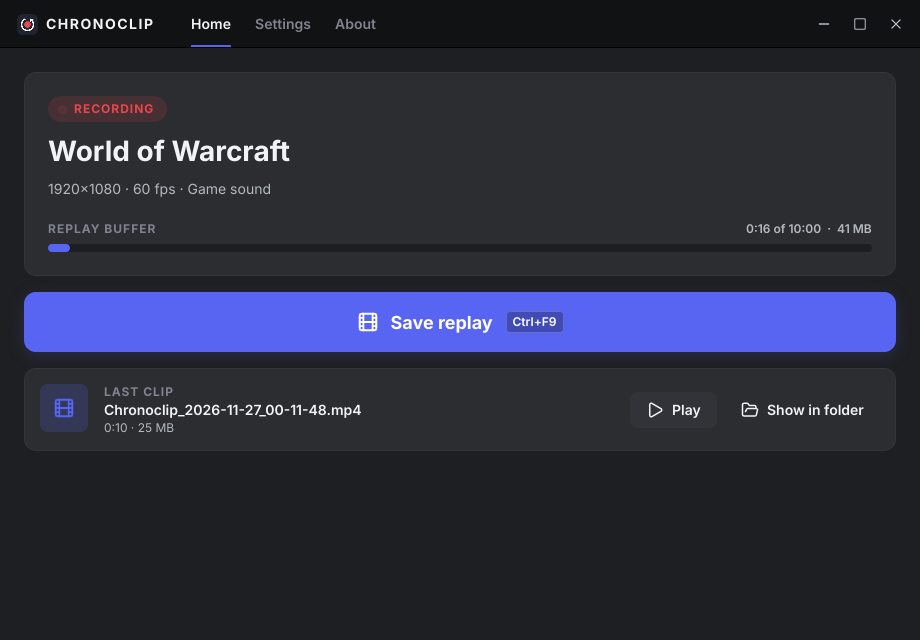
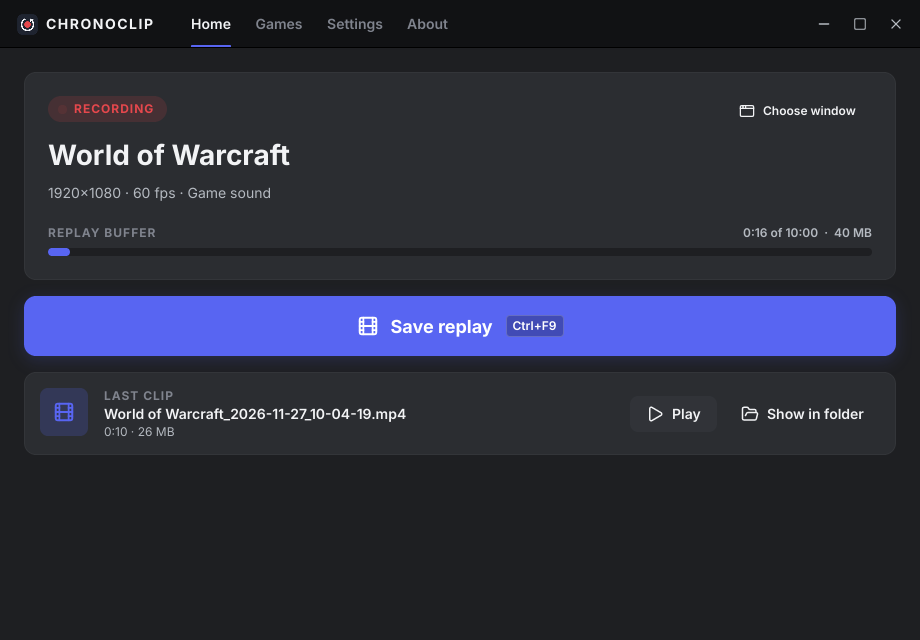
docs: Chronoclip records your games, not only WoW (M8)

diff --git a/app/src/main.rs b/app/src/main.rs
@@ -1,4 +1,4 @@
-//! Chronoclip: replay buffer for World of Warcraft on Linux.
+//! Chronoclip: replay buffer for your games on Linux.
 //!
 //! Without a subcommand this starts the tray app (or shows the window of an already running
 //! instance). Subcommands talk to the running instance over a Unix socket.
@@ -30,7 +30,7 @@ use crate::controller::Controller;
 #[command(
     name = "chronoclip",
     version,
-    about = "Replay buffer for World of Warcraft on Linux"
+    about = "Replay buffer for your games on Linux"
 )]
 struct Cli {
     /// Start in the tray without showing the window (for autostart).

diff --git a/app/src/controller.rs b/app/src/controller.rs
@@ -23,7 +23,8 @@ use crate::recorder::{Recorder, RecorderConfig, RecorderStatus, Shared};
 use crate::save::{self, SavedClip};
 use crate::ui::{MainWindow, RecState, Tray, TrayState};
 
-/// Set to a window title (substring) to record that window instead of WoW. For testing.
+/// Set to a window title (substring) to record only that window instead of the games. For
+/// testing.
 const WINDOW_ENV: &str = "CHRONOCLIP_WINDOW";
 
 #[derive(Default)]

diff --git a/app/src/notify.rs b/app/src/notify.rs
@@ -1,6 +1,6 @@
 //! Feedback after a save that you notice even in-game: a chime and a desktop notification.
 //!
-//! Cinnamon hides notifications over fullscreen windows by default, and borderless WoW counts
+//! Cinnamon hides notifications over fullscreen windows by default, and borderless games count
 //! as fullscreen, so the chime is what tells you a save worked while playing.
 
 use std::path::{Path, PathBuf};

diff --git a/crates/chronoclip-core/src/autostart.rs b/crates/chronoclip-core/src/autostart.rs
@@ -15,7 +15,7 @@ pub fn desktop_entry(exe: &Path) -> String {
         "[Desktop Entry]\n\
          Type=Application\n\
          Name=Chronoclip\n\
-         Comment=Replay buffer for World of Warcraft\n\
+         Comment=Replay buffer for your games\n\
          Exec={} --hidden\n\
          Icon={APP_ID}\n\
          Terminal=false\n\

diff --git a/README.md b/README.md
@@ -1,13 +1,13 @@
 # Chronoclip
 
-> An open source, lightweight **replay buffer for World of Warcraft on Linux**. Think NVIDIA ShadowPlay "Instant Replay", but native to Linux, vendor-neutral, and built around WoW running through Wine / Proton / Lutris.
+> An open source, lightweight **replay buffer for your games on Linux**. Think NVIDIA ShadowPlay "Instant Replay", but native to Linux and vendor-neutral. Made for World of Warcraft first, and it records any game: Steam and Proton, Battle.net, Lutris, Heroic or native Linux games.
 
-Chronoclip continuously records your gameplay to a rolling buffer on disk. When something worth keeping happens (a boss kill, a clutch arena win, a hilarious wipe) press your hotkey (default **`Ctrl+F9`**) and the last *N* minutes are saved as a normal video file.
+Chronoclip continuously records your gameplay to a rolling buffer on disk. When something worth keeping happens (a boss kill, a clutch round, a hilarious wipe) press your hotkey (default **`Ctrl+F9`**) and the last *N* minutes are saved as a normal video file.
 
 > **Status:** 🚧 Pre-alpha. Recording and saving replays with sound work on X11 with an NVIDIA GPU. See [Roadmap](#roadmap).
 
 <p align="center">
-  <img src="docs/images/chronoclip-window.png" alt="Chronoclip's Home page: a dark window with Home, Settings and About tabs in the title bar, a RECORDING badge for World of Warcraft at 1920×1080 and 60 fps with game sound, a replay buffer bar at 0:16 of 10:00, a large blue Save replay button showing Ctrl+F9, and the last saved clip with Play and Show in folder buttons" width="440">
+  <img src="docs/images/chronoclip-window.png" alt="Chronoclip's Home page: a dark window with Home, Games, Settings and About tabs in the title bar, a RECORDING badge for World of Warcraft at 1920×1080 and 60 fps with game sound and a Choose window button, a replay buffer bar at 0:16 of 10:00, a large blue Save replay button showing Ctrl+F9, and the last saved clip with Play and Show in folder buttons" width="440">
   <img src="docs/images/chronoclip-settings.png" alt="Chronoclip's Settings page: cards for Recording (replay length slider at 10 min, frame rate 30/60/120/144, encoder dropdown) and Sound (Game only, All sound or Off, microphone toggle)" width="440">
 </p>
 
@@ -15,14 +15,15 @@ Chronoclip continuously records your gameplay to a rolling buffer on disk. When 
 
 Chronoclip is a **replay buffer**, like a dashcam for your game. You never have to remember to press "record" before the good part happens:
 
-1. **It is always recording.** While WoW runs, Chronoclip records the game window in the background and keeps the last *N* minutes (5 to 45, default 10) on disk. Anything older is deleted automatically, so the buffer never grows.
-2. **You decide afterwards what to keep.** Something great just happened? Press `Ctrl+F9`. The last *N* minutes are saved as an MP4 in `~/Videos/Chronoclip`, ready to watch, trim or share on Discord.
-3. **Everything else is thrown away.** No hours of footage to sort through, no full disk. When you start the game again, the recording of the previous game is dropped, so a clip never mixes two game sessions.
+1. **It is always recording.** While a game runs, Chronoclip records its window in the background and keeps the last *N* minutes (5 to 45, default 10) on disk. Anything older is deleted automatically, so the buffer never grows.
+2. **You decide afterwards what to keep.** Something great just happened? Press `Ctrl+F9`. The last *N* minutes are saved as an MP4 in `~/Videos/Chronoclip/<game>`, ready to watch, trim or share on Discord.
+3. **Everything else is thrown away.** No hours of footage to sort through, no full disk. When you start a game again (or another one), the previous recording is dropped, so a clip never mixes two game sessions.
 
 ### Using it
 
 - Start Chronoclip once; it sits in the system tray. Closing the window keeps it recording in the background.
-- Start WoW as usual (Faugus, Lutris, Steam/Proton, …). Chronoclip finds the WoW window by itself and starts recording; the tray tooltip and the window show the status.
+- Start a game as usual (Steam, Faugus, Lutris, Heroic, …). Chronoclip finds it by itself and starts recording: your installed Steam games, games in Wine prefixes it knows (Battle.net games, for example) and 176 built-in games are recognized. For anything else it asks *"Record this game?"*, or you pick the window with **Choose window**. The tray tooltip and the window show the status.
+- It stays with the game you started, even if you start another one; **Choose window** switches.
 - Press the hotkey (or click **Save replay** in the window or tray menu, or run `chronoclip save`). A few seconds later the clip is in your clips folder.
 
 ### What it costs
@@ -42,7 +43,7 @@ Chronoclip only reads what your desktop already shows on screen and plays throug
 
 ## Why
 
-Windows players have ShadowPlay, ReLive, Medal and friends. On Linux the options are either general-purpose (OBS) or CLI-first. Chronoclip is a small, focused, native desktop app for one job: *always be recording WoW, save the good bits with one key*. It is built by a Linux WoW player for their own use and shared in case it is useful to others.
+Windows players have ShadowPlay, ReLive, Medal and friends. On Linux the options are either general-purpose (OBS) or CLI-first. Chronoclip is a small, focused, native desktop app for one job: *always be recording your game, save the good bits with one key*. It is built by a Linux WoW player for their own use and shared in case it is useful to others.
 
 ## Features
 
@@ -50,14 +51,17 @@ Works today (X11 + NVIDIA):
 
 - **Always-on replay buffer** on disk, oldest footage deleted automatically, cleaned up on exit.
 - **Save on hotkey**: a configurable global hotkey (default `Ctrl+F9`) that works while the game has focus, plus a Save button, tray menu and `chronoclip save` CLI command.
-- **Game sound**: only WoW's own audio by default, so voice chat and music stay out of your clips; or *all sound* if you want your Discord call in them. Optional **microphone** on its own track.
+- **Game sound**: only the game's own audio by default, so voice chat and music stay out of your clips; or *all sound* if you want your Discord call in them. Optional **microphone** on its own track.
 - **Configurable buffer length**: from **5 to 45 minutes** (default **10**).
 - **Instant saves**: saving joins the already-encoded segments into an MP4 without re-encoding, so it takes seconds, not minutes.
 - **Hardware encoding** with NVENC, GPU-only capture path.
-- **Finds the WoW window by itself** (Wine / Proton `Wow.exe`).
+- **Finds your games by itself**: installed Steam games, Blizzard and other known games in Wine prefixes (Faugus, Lutris, Heroic, Bottles, Steam), 176 built-in games, and games you add. Proper names from Steam, Heroic, Lutris and Faugus.
+- **Asks about unknown games**: a window that looks like a game but is in no list gets *"Record this game?"* (on Home and in a notification), with *Record* or *Not this one*.
+- **Games tab**: your games, the ones installed on this computer, the ones you switched off and the built-in list, with search; **Choose window** picks any window.
+- **A folder per game**: `~/Videos/Chronoclip/ELDEN RING/ELDEN RING_2026-11-27_21-04-33.mp4`.
 - **Modern dark window** in the style of the Battle.net launcher and Discord: big status, the replay buffer filling up, a big **Save replay** button with your hotkey, the last clip with **Play** / **Show in folder**, settings in cards, a hotkey recorder (click and press your keys).
 - **Fully native and lightweight**: Rust all the way down, native UI with [Slint](https://slint.dev). No Electron, no webview.
-- **Tray app** that keeps recording when the window is closed. The icon shows the state: red while recording, grey while waiting for WoW, amber on errors.
+- **Tray app** that keeps recording when the window is closed. The icon shows the state: red while recording, grey while waiting for a game, amber on errors.
 - **You hear when a clip is saved**: a short chime (a different tone if saving failed), also while playing, plus a desktop notification with **Play** and **Show in folder**.
 - **Start with the desktop** (optional): starts in the tray when you log in.
 - **Packages**: a .deb for Ubuntu and Linux Mint and an AppImage for other distros, on [GitHub Releases](https://github.com/etse/chronoclip/releases/latest); both bring their own FFmpeg.
@@ -65,7 +69,6 @@ Works today (X11 + NVIDIA):
 Planned (see [Roadmap](#roadmap)):
 
 - **Wayland** (screen capture and hotkey through portals) and **AMD / Intel** GPUs (VAAPI).
-- **Other games** besides WoW.
 
 ## Tech stack
 
@@ -84,11 +87,11 @@ The reasoning is recorded in [docs/adr/](docs/adr/). The design is in [docs/arch
 ## How it works (short version)
 
 ```
- WoW window ──► XComposite / PipeWire ──► NVENC / VAAPI ──► 2 s segments in ~/.cache
+ Game window ─► XComposite / PipeWire ──► NVENC / VAAPI ──► 2 s segments in ~/.cache
  Game audio ──► PipeWire ──────────────┘                     (rolling, oldest deleted)
                                                                     │
             Ctrl+F9 / `chronoclip save` ──► take last N min ────────┘
-                                              └──► remux (no re-encode) ──► ~/Videos/Chronoclip/*.mp4
+                                              └──► remux (no re-encode) ──► ~/Videos/Chronoclip/<game>/*.mp4
 ```
 
 ## Requirements
@@ -138,17 +141,17 @@ Settings are stored in `~/.config/chronoclip/settings.toml`.
 
 Any of these saves the last *N* minutes (your buffer length) while recording keeps going:
 
-- press the hotkey (default **`Ctrl+F9`**), also while WoW has focus,
+- press the hotkey (default **`Ctrl+F9`**), also while the game has focus,
 - click **Save replay** in the window, or **Save replay** in the tray menu,
 - run `chronoclip save`. It waits for the clip and prints its path, so you can also bind it to a key in your desktop's keyboard settings (the way to go on Wayland until the portal hotkey lands).
 
-A short rising chime tells you the clip was saved, and a lower falling tone that it wasn't (for example when nothing was recorded yet). A desktop notification shows the clip's length and size, with **Play** and **Show in folder** buttons. Cinnamon hides notifications over fullscreen windows by default (borderless WoW counts), so in-game the chime is what you notice; the notification is waiting when you alt-tab. With *All sound*, the chime is recorded at the start of the next clip.
+A short rising chime tells you the clip was saved, and a lower falling tone that it wasn't (for example when nothing was recorded yet). A desktop notification shows the clip's length and size, with **Play** and **Show in folder** buttons. Cinnamon hides notifications over fullscreen windows by default (borderless games count), so in-game the chime is what you notice; the notification is waiting when you alt-tab. With *All sound*, the chime is recorded at the start of the next clip.
 
-Clips go to a folder per game, e.g. `~/Videos/Chronoclip/World of Warcraft/World of Warcraft_YYYY-MM-DD_HH-MM-SS.mp4` (H.264 + AAC in MP4, plays everywhere, starts instantly in browsers and Discord). The save waits up to two seconds for the moment you pressed the key to be written, then copies the video without re-encoding, so even long clips take seconds. If the WoW window changed size during the buffer, the clip starts at the resize. Each save starts where the previous clip ended, so two clips never contain the same footage.
+Clips go to a folder per game, e.g. `~/Videos/Chronoclip/World of Warcraft/World of Warcraft_YYYY-MM-DD_HH-MM-SS.mp4` (H.264 + AAC in MP4, plays everywhere, starts instantly in browsers and Discord). The save waits up to two seconds for the moment you pressed the key to be written, then copies the video without re-encoding, so even long clips take seconds. If the game window changed size during the buffer, the clip starts at the resize. Each save starts where the previous clip ended, so two clips never contain the same footage.
 
 ## Configuration
 
-Settings are changed on the **Settings** tab and saved automatically: buttons and switches at once, the slider when you let go, folder fields when you press Enter or leave the field. To change the hotkey, click it and press the new key combination (Esc cancels).
+Games are managed on the **Games** tab: remove one you added, switch off one that isn't a game (*Don't record*), or add a window with *Add a game window…*. Everything else is on the **Settings** tab and saved automatically: buttons and switches at once, the slider when you let go, folder fields when you press Enter or leave the field. To change the hotkey, click it and press the new key combination (Esc cancels).
 
 | Setting | Default | Range / notes |
 |---|---|---|
@@ -159,7 +162,7 @@ Settings are changed on the **Settings** tab and saved automatically: buttons an
 | Resolution / FPS | Native / 60 | 30, 60, 120, 144 |
 | Encoder | Auto (best available) | VAAPI, NVENC, software fallback |
 | Quality | Auto | Constant quality or constant bitrate |
-| Sound | Game only | *Game only* (WoW's own audio; all sound until WoW's audio is found), *All sound* (everything you hear, incl. voice chat and music), *Off* |
+| Sound | Game only | *Game only* (the game's own audio; all sound until it is found), *All sound* (everything you hear, incl. voice chat and music), *Off* |
 | Microphone | Off | Your default microphone as a second audio track (players and Discord play only the first track) |
 | Play a sound when a clip is saved | On | Chime on success, lower tone on failure |
 | Chronoclip title bar | On | Off: your desktop's normal window title bar instead of Chronoclip's own |
@@ -202,4 +205,4 @@ Contributions are welcome. See [CONTRIBUTING.md](CONTRIBUTING.md). The repositor
 
 ## Disclaimer
 
-Chronoclip is a fan-made project and is not affiliated with or endorsed by Blizzard Entertainment. World of Warcraft is a trademark of Blizzard Entertainment, Inc.
+Chronoclip is a fan-made project and is not affiliated with or endorsed by Blizzard Entertainment, Valve or any other game publisher. World of Warcraft is a trademark of Blizzard Entertainment, Inc. Other game names belong to their owners.

diff --git a/docs/architecture.md b/docs/architecture.md
@@ -1,6 +1,6 @@
 # Architecture
 
-> Status: X11 + NVIDIA capture (M2), saving replays (M3) and audio (M4) are implemented; Wayland and VAAPI are still design. Update this document as the implementation lands.
+> Status: X11 + NVIDIA capture (M2), saving replays (M3), audio (M4) and recording any game (M8) are implemented; Wayland and VAAPI are still design. Update this document as the implementation lands.
 
 ## Goals
 
@@ -43,7 +43,7 @@
 | `AudioTimeline` | `chronoclip-core` | Places captured chunks on the session clock: silence for gaps, drops overlap, corrects device clock drift. |
 | Audio tracks | `app/` (`audio.rs`) | `AudioSink` per track: timeline → `AacEncoder` → writer, timestamps relative to the current window session. |
 | `Encoder` / `SegmentWriter` | `chronoclip-encode` | FFmpeg wrappers. NVENC with a closed GOP aligned to segment length so every segment starts with an IDR frame; AAC (FFmpeg's built-in encoder). The segment writer cuts on video keyframes and writes the audio streams into the same files. |
-| App | `app/` | Slint UI, tray icon, global hotkey, single-instance IPC + CLI, lifecycle (start/stop, WoW detection), desktop notifications. |
+| App | `app/` | Slint UI, tray icon, global hotkey, single-instance IPC + CLI, lifecycle (start/stop, finding the game: see [Finding the game](#finding-the-game)), desktop notifications. |
 
 ### Linux integration
 
@@ -51,8 +51,8 @@ Implementation order follows the reference setup (Linux Mint Cinnamon on X11, NV
 
 | Concern | X11 (first) | Wayland (later) |
 |---|---|---|
-| Video capture | `XCompositeRedirectWindow` on the WoW window → named pixmap → `GLX_EXT_texture_from_pixmap` texture → drawn with a full-screen-triangle shader into our own RGBA8 texture (NVIDIA can't attach pixmap textures to an FBO, so no blit) → registered with CUDA (`cuGraphicsGLRegisterImage`) → `cuMemcpy2D` into the encoder's CUDA frame → NVENC. Frames never touch the CPU. **Copy mode:** NVIDIA refuses `glXCreatePixmap` (BadAlloc) on the backing pixmap of windows rendered via Vulkan/DXVK (Wine/Proton games, Battle.net, Chrome); for those the X server first copies the window into a pixmap we own (`XCopyArea`, a server-side GPU copy) and that pixmap is bound instead. A resize or minimize ends the session; the recorder then starts a new one at the new size. | xdg-desktop-portal ScreenCast (`ashpd`) → PipeWire stream, DMA-BUF when available. Persist the portal **restore token** so the user picks the WoW window only once. |
-| Audio | PulseAudio client API (`libpulse.so.0`, loaded at runtime), served by `pipewire-pulse`: the WoW stream alone via a monitor stream (`pa_stream_set_monitor_stream`), or `@DEFAULT_MONITOR@` for all sound; microphone from the default source | same (the portal is only needed for video) |
+| Video capture | `XCompositeRedirectWindow` on the game window → named pixmap → `GLX_EXT_texture_from_pixmap` texture → drawn with a full-screen-triangle shader into our own RGBA8 texture (NVIDIA can't attach pixmap textures to an FBO, so no blit) → registered with CUDA (`cuGraphicsGLRegisterImage`) → `cuMemcpy2D` into the encoder's CUDA frame → NVENC. Frames never touch the CPU. **Copy mode:** NVIDIA refuses `glXCreatePixmap` (BadAlloc) on the backing pixmap of windows rendered via Vulkan/DXVK (Wine/Proton games, Battle.net, Chrome); for those the X server first copies the window into a pixmap we own (`XCopyArea`, a server-side GPU copy) and that pixmap is bound instead. A resize or minimize ends the session; the recorder then starts a new one at the new size. | xdg-desktop-portal ScreenCast (`ashpd`) → PipeWire stream, DMA-BUF when available. Persist the portal **restore token** so the user picks the game window only once. |
+| Audio | PulseAudio client API (`libpulse.so.0`, loaded at runtime), served by `pipewire-pulse`: the game's stream alone via a monitor stream (`pa_stream_set_monitor_stream`), or `@DEFAULT_MONITOR@` for all sound; microphone from the default source | same (the portal is only needed for video) |
 | Encoder | NVENC (NVIDIA, via FFmpeg `h264_nvenc` / `hevc_nvenc` / `av1_nvenc` with CUDA hw frames), VAAPI (AMD/Intel) | same |
 | Global hotkey | `XGrabKey` on the root window, once per Caps Lock / Num Lock combination; own code in `chronoclip-capture` (`X11Hotkey`) with its own thread and X connection. A key taken by another client (`BadAccess`) is reported in the UI | GlobalShortcuts portal (KDE Plasma 6, GNOME 48+, Hyprland). Fallback: user binds `chronoclip save` in their desktop settings |
 | Tray | Slint `SystemTrayIcon` (StatusNotifierItem); GNOME needs the AppIndicator extension | same |
@@ -87,7 +87,17 @@ Stream-copy concatenation into MP4 is I/O bound and takes seconds even for 45 mi
 ### Capture target
 **Borderless windowed is the primary supported mode** (it's what the maintainer uses, and it gives a stable window size and painless alt-tab). Exclusive fullscreen is best-effort.
 
-Prefer capturing the WoW window over the full monitor. On X11, find it automatically: Proton/Wine windows for `Wow.exe` (WM_CLASS `wow.exe` / `steam_app_*`, or `_NET_WM_PID` → `/proc/<pid>/cmdline` containing `Wow.exe`); let the user pick a window manually if detection fails. The game's graphics API (DX12 → vkd3d-proton → Vulkan) doesn't matter, because we capture the X11 window, not the swapchain. On Wayland the user picks the window in the portal dialog the first time; the restore token remembers it.
+Chronoclip captures the game's window, not the monitor. The game's graphics API (DX12 → vkd3d-proton → Vulkan, OpenGL, …) doesn't matter, because we capture the X11 window, not the swapchain. Which window is the game: see [Finding the game](#finding-the-game). On Wayland the user will pick the window in the portal dialog the first time; the restore token remembers it.
+
+## Finding the game
+
+Since M8 Chronoclip records any game, not only WoW. Everything here only reads what the X server and `/proc` already expose about a window (title, WM_CLASS, `_NET_WM_PID` → `/proc/<pid>/{comm,cmdline}`, a few launcher variables from `/proc/<pid>/environ`) and the launchers' own files; never the game's memory (hard rule 1).
+
+- **Games list** (`chronoclip-core::games`), in priority order: the user's games (picked windows, "Record"), the games **installed** on this computer (`installed`: every Steam game from the `appmanifest` files of all libraries, and catalog games whose executable is in a Wine prefix of Faugus, Lutris, Heroic, Bottles, Steam `compatdata`, `~/.wine` or `~/Games`), then the **built-in catalog** (`data/games.toml`, compiled in; 176 games, checked by a unit test in CI). Games on the user's "Not recorded" list are left out. A game matches a window by executable name (WM_CLASS, process name, command line; Wine/Proton show the Windows `.exe`), by **Steam app id** (Proton's WM_CLASS `steam_app_<id>` or `SteamAppId`), or as a last resort by title.
+- **Names** come from the launchers (`launchers`): Steam manifests, Heroic's library caches (`HEROIC_APP_NAME`), Lutris's `GAME_NAME`, Faugus's `games.json`. A game started from a store launcher inherits that launcher entry's environment (WoW from the Battle.net entry), so store launcher names are ignored and Faugus entries must match the executable.
+- **Unknown games** (`detect`): a window in no list that scores ≥ 2 (Windows program +2, `_NET_WM_BYPASS_COMPOSITOR = 1` +2, fullscreen +1; 0 for known launchers, browsers, chat apps, terminals, video players and windows under 640×360) gets "Record this game?" on Home and in a notification. *Not this one* puts it on the "Not recorded" list.
+- **Staying with the game**: the recorder shares a "current window" with the controller; it prefers that window and only looks again when it closes, so starting a second game doesn't switch. The window picker (and "Record") point it elsewhere and restart the recorder (the buffer is cleared: a clip never mixes two games). The games list is shared too, so it can change (a game added or switched off, a new install found) without a restart; only a session whose game left the list ends.
+- **Clips** go to a folder per game, named after the game (`clips::safe_file_name`).
 
 ## Disk usage estimate
 
@@ -177,14 +187,14 @@ Clips decode without errors in FFmpeg and play in mpv; `moov` is first. Not chec
 ## Decisions made in M4
 
 - **PulseAudio client API instead of the native PipeWire API.** `pipewire-pulse` is installed on every desktop that runs PipeWire, the API records a single application's stream (monitor streams), and `libpulse.so.0` can be loaded at runtime like X11 and CUDA, so no new build dependency (the `pipewire` crate needs `libpipewire-0.3-dev` + bindgen). It also works on plain PulseAudio systems. The native API can come later behind `AudioCapture` if needed.
-- **Game stream found by process id or name**: the same process as the captured window, a WoW executable name, or the application name "World of Warcraft" / the window title (what native-PipeWire Wine streams carry; verified in-game). Falls back to all sound rather than silence, so a clip never loses sound just because detection failed; the log then lists the streams it saw.
+- **Game stream found by process id or name**: the same process as the captured window, one of the game's executables, or an application name starting with the game's name / equal to the window title (since M8 for any game; before, WoW only) (what native-PipeWire Wine streams carry; verified in-game). Falls back to all sound rather than silence, so a clip never loses sound just because detection failed; the log then lists the streams it saw.
 - **AAC in the segments, not Opus:** MP4 + AAC plays everywhere (browsers, Discord, phones) without remuxing again.
 - **Arrival-time timestamps with drift correction** instead of resampling: simple and in sync within a frame; the cost is a short cut or silence every half minute or so on devices whose clock is far off. Resampling can replace it if that turns out audible.
 - **Microphone as a separate track**, not mixed into the game track: the clip keeps both editable. Discord and browsers only play track 1, so the mic isn't heard there (mixing is not planned for M4).
 
 ## Decisions made in M5
 
-- **Chime as the in-game feedback**, notifications second: Cinnamon (and most desktops) hide notifications over fullscreen windows, and borderless WoW counts as fullscreen. The chime is synthesized, so there is no sound file to ship or license. It goes to the default output, so *All sound* records it.
+- **Chime as the in-game feedback**, notifications second: Cinnamon (and most desktops) hide notifications over fullscreen windows, and borderless games count as fullscreen. The chime is synthesized, so there is no sound file to ship or license. It goes to the default output, so *All sound* records it.
 - **`notify-rust` pinned to 4.18**: 4.19 moved to zbus 6, while Slint (accesskit) uses zbus 5; staying on 4.18 keeps one zbus in the binary.
 - **Autostart is the file, not a setting**: the switch reads whether `~/.config/autostart/chronoclip.desktop` exists, so it can't disagree with what the desktop does. Entries without our `X-Chronoclip-Autostart` marker are never rewritten.
 - **Tray state from the recorder status**: three pre-rendered icons (red, grey, amber dot), switched in `tray.slint`.
@@ -210,7 +220,16 @@ Clips decode without errors in FFmpeg and play in mpv; `moov` is first. Not chec
 - **Inter** (OFL) and **Lucide** icons (ISC) are bundled in the binary (~1.4 MB); their license texts are added to `THIRD-PARTY-LICENSES.txt`.
 - **Pulsing record dot** uses `animation-tick()` only while recording and the window is visible: about +1.2 % of one core while visible, nothing when hidden.
 
+## Decisions made in M8
+
+- **Games are data, not code**: WoW moved into the catalog `data/games.toml` like every other game. TOML because the settings use it already, it has comments (each entry names its source) and pull requests diff cleanly. Parsing is strict (a misspelled key fails the test), unlike the settings file.
+- **Steam app id before executable names**: Steam and Proton tag every game's window with it, so one checked number recognizes a Steam game. The catalog's Steam entries come from Steam's most played chart and popular titles, each checked against the store API (2026-11-27); executables only from installs.
+- **Installed games are scanned, not stored** (startup and when the Games tab opens, ~40 ms for 19 games): an uninstalled game disappears by itself, and nothing has to be kept in sync.
+- **Launchers' data from their files and environment variables**, not their databases: Lutris's `GAME_NAME` avoids reading its SQLite database; Heroic's library caches are JSON. Lutris and Heroic follow their source code; neither was installed on the maintainer's computer.
+- **Ask, don't guess**: unknown windows that look like games are only recorded after "Record". The Battle.net launcher looks like a Proton game in every way, so launchers are listed explicitly. GameMode is not used (only knows games started with `gamemoderun`), nor the NVIDIA process list (every desktop app uses the GPU).
+- **The games list is shared with the recorder** instead of being part of its settings: changing it never restarts the recorder, so the buffer isn't lost.
+
 ## Open questions
 
-- Cinnamon "unredirects" fullscreen windows for performance. WoW's borderless "Windowed (Fullscreen)" mode may still be flagged `_NET_WM_STATE_FULLSCREEN` and get unredirected. Our own `XCompositeRedirectWindow` should keep an off-screen pixmap regardless; verify this in M2. Exclusive fullscreen is lower priority.
+- Cinnamon "unredirects" fullscreen windows for performance. WoW's (or any game's) borderless "Windowed (Fullscreen)" mode may still be flagged `_NET_WM_STATE_FULLSCREEN` and get unredirected. Our own `XCompositeRedirectWindow` should keep an off-screen pixmap regardless; verify this in M2. Exclusive fullscreen is lower priority.
 - Wayland zero-copy: PipeWire DMA-BUF → VAAPI surface import; NVIDIA (DMA-BUF → CUDA → NVENC).

diff --git a/AGENTS.md b/AGENTS.md
@@ -15,7 +15,7 @@ Keep it brief (under ~15 lines), then answer the maintainer's first message. If 
 
 ## Project
 
-**Chronoclip** is an open source replay buffer for World of Warcraft **on Linux** (ShadowPlay-style "Instant Replay"). WoW runs through Wine / Proton / Lutris.
+**Chronoclip** is an open source replay buffer for games **on Linux** (ShadowPlay-style "Instant Replay"). It was made for World of Warcraft (through Wine / Proton) and records any game since M8: it finds games by itself (your games, installed Steam games, catalog games in Wine prefixes, the built-in catalog `crates/chronoclip-core/data/games.toml`), asks "Record this game?" about unknown ones, and has a window picker.
 It continuously records gameplay to a rolling on-disk buffer. A configurable global hotkey (default `Ctrl+F9`) saves the last N minutes (5 to 45, default 10) as an MP4.
 
 The maintainer builds it for their own use as a Linux gamer and shares it with others. **Linux is the only target.** Windows and macOS are non-goals; don't add cross-platform abstractions for them.
@@ -45,7 +45,8 @@ Read before making non-trivial changes:
 ├── app/                       # Binary crate `chronoclip`: main, tray, hotkeys, IPC, CLI, UI wiring
 │   └── ui/                    # Slint UI files (*.slint), presentation only
 ├── crates/
-│   ├── chronoclip-core/       # Pure logic: settings, hotkeys, segment index, paths, IPC protocol
+│   ├── chronoclip-core/       # Pure logic: settings, hotkeys, segment index, paths, IPC protocol; games
+│   │                          #   (games, launchers, installed, detect, clips); data/games.toml = built-in catalog
 │   ├── chronoclip-capture/    # X11: window finding, capture (XComposite → GLX → CUDA), hotkey grab; audio (libpulse); Wayland later
 │   └── chronoclip-encode/     # FFmpeg: NVENC encoder (CUDA frames), AAC encoder, MPEG-TS segment writer, MP4 remux
 ├── packaging/
@@ -63,7 +64,7 @@ Read before making non-trivial changes:
 └── AGENTS.md
 ```
 
-Inside `app/src/`: `main.rs` (CLI + startup), `controller.rs` (handles commands from UI/tray/IPC/hotkey on any thread, owns the recorder and the hotkey, starts saves), `recorder.rs` (capture/encode thread + writer thread), `audio.rs` (audio tracks: capture → timeline → AAC, aligned to the video session clock), `buffer.rs` (`ReplayBuffer`: segment index shared by the writer and saves, pinning), `save.rs` (one save: pick segments → remux → MP4), `hotkey.rs` (picks the global hotkey backend for the session), `ui.rs` (Slint ↔ settings glue), `ipc.rs` (Unix socket, single instance), `tray.rs` (wires Slint's built-in `SystemTrayIcon`, defined in `ui/tray.slint`).
+Inside `app/src/`: `main.rs` (CLI + startup), `controller.rs` (handles commands from UI/tray/IPC/hotkey on any thread, owns the recorder and the hotkey, starts saves; keeps the games list, the installed-games scan and "Record this game?"), `recorder.rs` (capture/encode thread + writer thread; finds the game window and stays with it), `audio.rs` (audio tracks: capture → timeline → AAC, aligned to the video session clock), `buffer.rs` (`ReplayBuffer`: segment index shared by the writer and saves, pinning), `save.rs` (one save: pick segments → remux → MP4), `hotkey.rs` (picks the global hotkey backend for the session), `ui.rs` (Slint ↔ settings glue), `ipc.rs` (Unix socket, single instance), `tray.rs` (wires Slint's built-in `SystemTrayIcon`, defined in `ui/tray.slint`).
 
 ## Commands
 
@@ -73,7 +74,7 @@ System dependencies are listed in [INSTALL.md](INSTALL.md).
 cargo run -p chronoclip            # start the app (or show the running one)
 cargo run -p chronoclip -- save    # talk to the running instance: save | show | quit
 RUST_LOG=debug cargo run -p chronoclip
-CHRONOCLIP_WINDOW=glxgears cargo run -p chronoclip   # record any window by title instead of WoW
+CHRONOCLIP_WINDOW=glxgears cargo run -p chronoclip   # record only the window with this title (instead of the games)
 cargo fmt --all
 cargo clippy --workspace --all-targets -- -D warnings
 cargo test --workspace

diff --git a/docs/roadmap.md b/docs/roadmap.md
@@ -80,8 +80,10 @@ Detection only reads window properties and `/proc/<pid>/{comm,cmdline,environ}` 
   - Done so far: the recorder keeps a shared "current window" (`Controller::current_window`), prefers it in `find_window` and sets it to what it records, so a second game doesn't take over and a settings change doesn't switch games. Picking a window points it there and restarts the recorder (buffer cleared). Test instance (2026-11-27), games [B, A]: A started first → A; B started → still A; picked B → B; settings changed (game removed) → still B; B closed → back to A. Picking a window one of your games already matches records it without adding a duplicate. Clip folders per game: done with the per-game clips task
 - [ ] Games tab (planned as a Settings card) listing your games (World of Warcraft built in, games you added or that were detected), with **Remove** for one added by mistake, and the "never record" list (built with the window picker, so a wrong pick can be undone right away)
   - Done: a **Games tab** (Home · Games · Settings · About; moved out of Settings after the maintainer noted the list easily grows past 10 games) lists World of Warcraft ("Built in") and your games with how they're recognized, **Remove** and "Add a game window…". Checked with 12 games: scrolls, Remove hits the right entry. Test instance: Remove dropped the game from `settings.toml` and recording stopped ("Nothing recorded yet"). The "never record" list now exists (Not recorded section); the "Record this game?" question will add to it
-- [ ] Texts: "for World of Warcraft" → "for your games" in README, About, desktop file, metainfo, CLI help, autostart file
-- [ ] Docs: README, architecture.md (detection), AGENTS.md (project description), CHANGELOG
+- [x] Texts: "for World of Warcraft" → "for your games" in README, About, desktop file, metainfo, CLI help, autostart file
+  - Also the .deb description, the Settings sound text, `app/Cargo.toml`, INSTALL.md and skills; About and README disclaimers name other publishers too. WoW stays as the reference setup and "made for WoW first". Existing autostart entries get the new text by themselves (`autostart::refresh` rewrites ours when it differs). `desktop-file-validate` and `appstreamcli validate --pedantic` pass
+- [x] Docs: README, architecture.md (detection), AGENTS.md (project description), CHANGELOG
+  - README: intro, using it, features (finding games, "Record this game?", Games tab, a folder per game), Games tab in Configuration, screenshots retaken (readme-screenshot skill; Games tab in the title bar). architecture.md: "Finding the game" and "Decisions made in M8". AGENTS.md: project description, layout (core's game modules, `data/games.toml`). CONTRIBUTING: "Add a game to the catalog"
 - [ ] Verified: fmt, clippy, tests; test instance with test windows (known game, unknown game → question, launcher ignored, switch clears buffer)
 - [ ] Verified in-game: WoW as before; Elden Ring, Satisfactory, Palworld and Path of Exile 2 detected with the right names, clips in their own folders, launchers (Battle.net, Steam) never recorded
 

diff --git a/INSTALL.md b/INSTALL.md
@@ -58,7 +58,7 @@ Everything Chronoclip loads from the system is part of every Linux X11 desktop (
 |---|---|---|
 | `libcuda.so.1`, `libnvidia-encode.so.1` | part of the NVIDIA driver | GPU copy (CUDA) and encoding (NVENC) |
 | `libX11.so.6`, `libX11-xcb.so.1`, `libxcb.so.1`, `libXcursor.so.1`, `libXi.so.6`, `libxkbcommon.so.0`, `libxkbcommon-x11.so.0`, `libfontconfig.so.1` | `libx11-6`, `libx11-xcb1`, `libxcb1`, `libxcursor1`, `libxi6`, `libxkbcommon0`, `libxkbcommon-x11-0`, `libfontconfig1` | The window, tray and fonts (Slint / winit) |
-| `libXcomposite.so.1`, `libGL.so.1` (GLX) | `libxcomposite1`, `libgl1` | Finding and capturing the WoW window on the GPU, and the global hotkey |
+| `libXcomposite.so.1`, `libGL.so.1` (GLX) | `libxcomposite1`, `libgl1` | Finding and capturing the game window on the GPU, and the global hotkey |
 | `libpulse.so.0`, `libpulse-simple.so.0` | `libpulse0` (installed with PipeWire's `pipewire-pulse` or PulseAudio) | Recording sound through the PulseAudio API, which PipeWire provides, and playing the save chime |
 | `xdg-open` | `xdg-utils` | **Play** and **Show in folder** / **Open** buttons |
 | `libavcodec`, `libavformat`, `libavutil` | bundled with Chronoclip (`/usr/lib/chronoclip`) | Encoding and writing video files |

diff --git a/.agents/skills/milestone/SKILL.md b/.agents/skills/milestone/SKILL.md
@@ -25,7 +25,7 @@ Goal: <what the maintainer gets, in one or two sentences>.
   - <evidence or finding, e.g. measurements, in-game result with date, maintainer's words>
 - [ ] Docs: README, architecture.md, INSTALL.md (if dependencies change), AGENTS.md (if commands/layout change)
 - [ ] Verified: <automated checks>
-- [ ] Verified in-game: <what the maintainer checks in WoW>
+- [ ] Verified in-game: <what the maintainer checks in WoW or other games>
 
 Out of scope: <what is explicitly not part of it, and where it goes instead>.
 ```

diff --git a/CHANGELOG.md b/CHANGELOG.md
@@ -28,6 +28,11 @@ versions follow [Semantic Versioning](https://semver.org/).
 - **Games tab** lists the games Chronoclip records (World of Warcraft is built in), with
   **Remove** for one you added by mistake.
 
+### Changed
+
+- Chronoclip is now a replay buffer for your games, not only World of Warcraft: the app, its
+  About page, the menu entry and the package descriptions say so.
+
 ## [0.2.0] - 2026-11-27
 
 A new, modern dark look, in the style of the Battle.net launcher and Discord.
